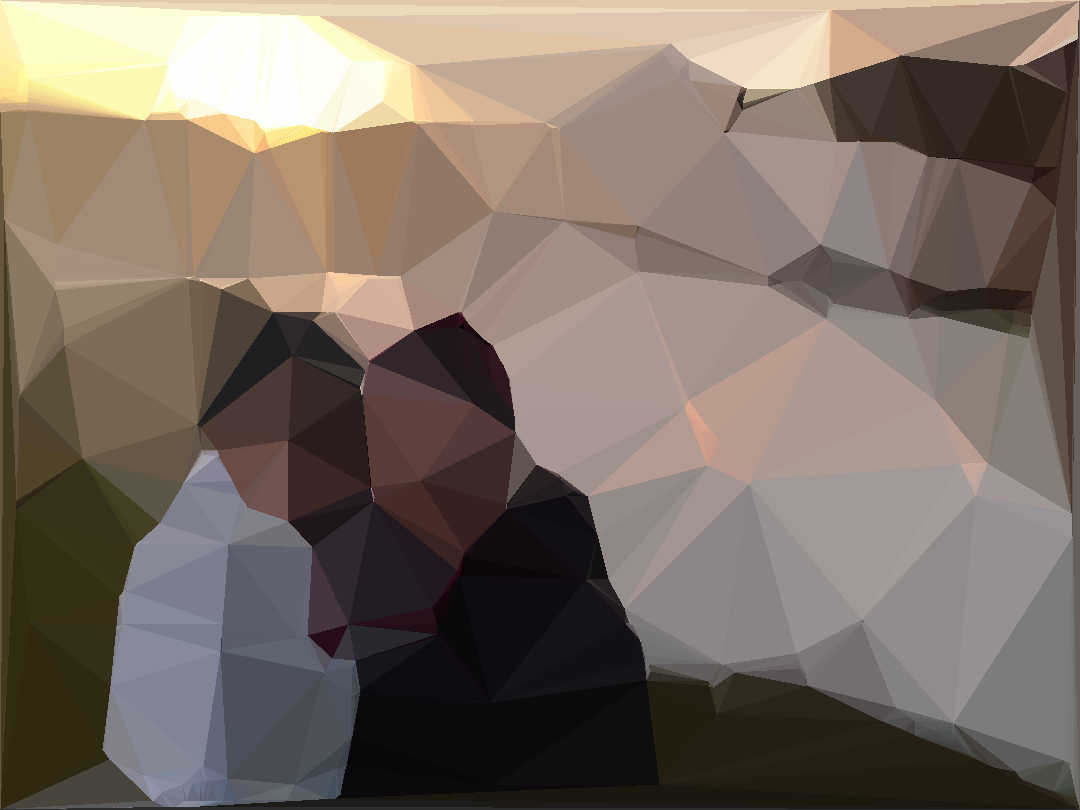
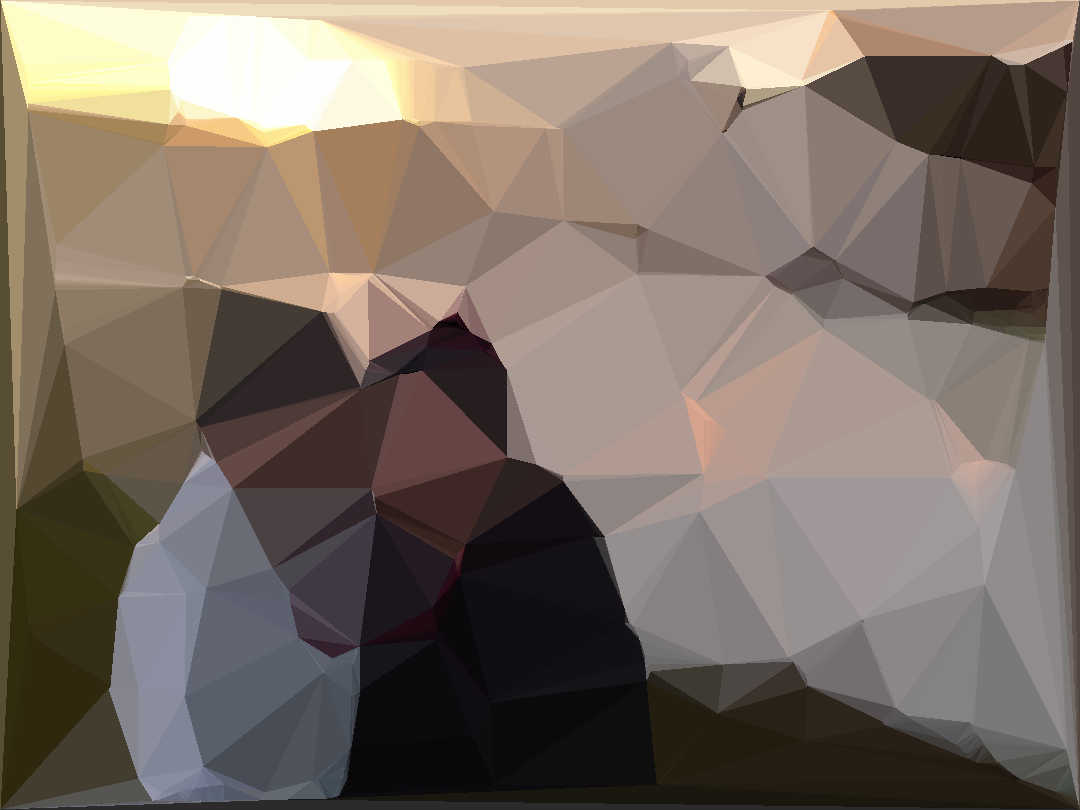
yea, this is better

diff --git a/index.js b/index.js
@@ -25,16 +25,19 @@ module.exports = function(img, size) {
 
   var numTris = 2;
   var polys = makePolys(points, data);
+  polys.sort(Polygon.sortFn);
   while (numTris < size) {
-    polys = updatePolys(polys, points);
-    console.log('num tris', polys.length);
     var start = now();
-    var outlier = polys.filter(p => p.getLength() > 100)
+    polys = updatePolys(polys, points);
+    var start = now();
+    var outlier = polys.slice(0, 10)
       .map(p => p.getOutlier(points))
       .reduce((m, p) => m.d > p.d ? m : p).p;
-    console.log('find outlier', (now()-start).toFixed(4));
+    if (outlier === undefined) break;
     points.push([outlier.x, outlier.y]);
     numTris = polys.length;
+    var total = now() - start;
+    console.log('num tris', polys.length, 'time', total.toFixed(4));
   }
 
   polys.forEach(p => p.paint(p.getAvg()));
@@ -55,7 +58,6 @@ function updatePolys(polys, points) {
     return m;
   }, {});
 
-  var start = now();
   var delaunay = new Delaunator(points);
   var triangles = delaunay.triangles;
   var oldPolys = [];
@@ -88,13 +90,9 @@ function updatePolys(polys, points) {
     }
   }
 
-  var total = now() - start;
-
   var all = oldPolys.concat(newPolys);
 
-  console.log('updatepoly', 'total', total.toFixed(4), 'num', all.length, 'per', (total/all.length).toFixed(4));
-
-  return oldPolys.concat(newPolys);
+  return all.sort(Polygon.sortFn);
 
 }
 

diff --git a/lib/polygon.js b/lib/polygon.js
@@ -15,6 +15,10 @@ var Polygon = module.exports = function (edge) {
   this.avg = null;
 };
 
+Polygon.sortFn = function(p1, p2) {
+  return p2.getLength() - p1.getLength();
+};
+
 Polygon.prototype.getLength = function() { return this.length; };
 
 Polygon.prototype.getOutlier = function(points) {
